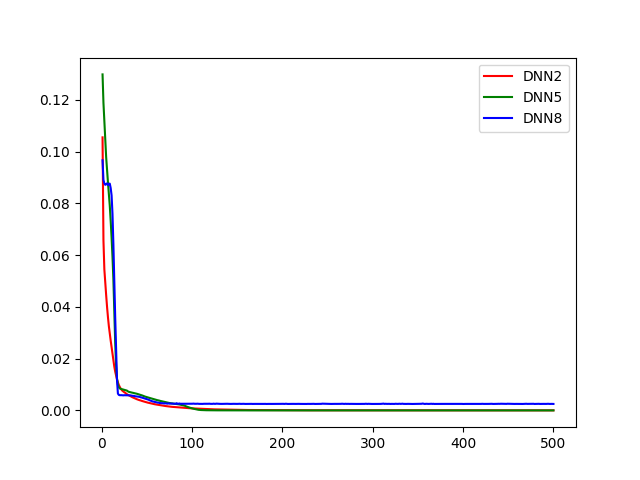
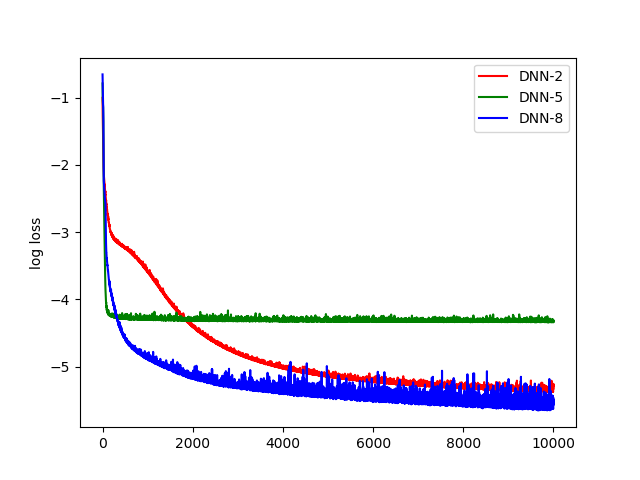
log_loss

diff --git a/hw1/vis/hw1-1/plot_loss_acc.py b/hw1/vis/hw1-1/plot_loss_acc.py
@@ -7,17 +7,19 @@ sys.path.append("../../")
 from model.model import DNN2, DNN5, DNN8
 import argparse
 import os
+from math import log
 
 if __name__ == '__main__':
-    arch_list = ['DNN2', 'DNN5', 'DNN8']
+    arch_list = ['DNN-2', 'DNN-5', 'DNN-8']
     color_list = ['r', 'g', 'b']
     plt.figure()
     for arch, color in zip(arch_list, color_list):
-        checkpoint = torch.load('../../saved/{}/model_last.pth'.format(arch))
+        checkpoint = torch.load('../../saved/{}/checkpoint-epoch10000.pth'.format(arch))
         logger = checkpoint['logger']
         print(arch, len(logger))
         x = [entry['epoch'] for _, entry in logger.entries.items()]
-        y = [entry['loss'] for _, entry in logger.entries.items()]
+        y = [log(entry['loss'], 10) for _, entry in logger.entries.items()]
+        plt.ylabel('log loss')
         plt.plot(x, y, color = color, label = arch)
         plt.legend(loc="best")
     

diff --git a/hw1/vis/hw1-1/plot_function.py b/hw1/vis/hw1-1/plot_function.py
@@ -13,7 +13,7 @@ from model.model import DNN2, DNN5, DNN8
 if __name__ == '__main__':
     func_name_list = ['sinc']
     func_lambda_list = [lambda x: np.sin(5 * np.pi * x) / (5 * np.pi * x + 1e-10)]
-    arch_list = ['DNN2', 'DNN5', 'DNN8']
+    arch_list = ['DNN-2', 'DNN-5', 'DNN-8']
     color_list = ['r', 'g', 'b']
 
     plt.figure(figsize=(12, 9))
@@ -24,7 +24,7 @@ if __name__ == '__main__':
         plt.title(func_name+' loss')
         plt.plot(x, y_target, 'k', label='Ground truth')
         for arch, color in zip(arch_list, color_list):
-            checkpoint = torch.load('../../saved/{}/model_last.pth'.format(arch))
+            checkpoint = torch.load('../../saved/{}/checkpoint-epoch10000.pth'.format(arch))
             model = eval(checkpoint['arch'])()
             model.load_state_dict(checkpoint['state_dict'])
             model.eval()
